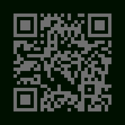
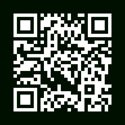
Creating labels for kegs/etc using QR codes and variables from Hugo posts

diff --git a/brewing_label.py b/brewing_label.py
@@ -1,0 +1,88 @@
+#!/usr/bin/env python
+# filepath: c:\Users\Michael Broggy\code\mbroggyblog\brewing_label.py
+import os
+import frontmatter
+import subprocess
+from PIL import Image
+
+# Directory paths (adjust as needed)
+POSTS_DIR = r"c:\Users\Michael Broggy\code\mbroggyblog\content\posts"
+IMAGES_DIR = r"c:\Users\Michael Broggy\code\mbroggyblog\static\images"
+LABELS_DIR = r"c:\Users\Michael Broggy\code\mbroggyblog\labels"
+
+# Ensure labels directory exists
+if not os.path.exists(LABELS_DIR):
+    os.makedirs(LABELS_DIR)
+
+# Function to resize the QR code image
+def resize_qr_code(qr_code_path, max_size=(100, 100)):
+    with Image.open(qr_code_path) as img:
+        img.thumbnail(max_size)
+        resized_path = os.path.join(LABELS_DIR, os.path.basename(qr_code_path))
+        img.save(resized_path)
+    return resized_path
+
+# Function to generate label content
+def generate_label_content(post):
+    brew_name = post.get('brew_name', post['title'])
+    brew_abv = post.get('brew_abv', '')
+    qr_code = post.get('qr', '')
+
+    # Adjust the QR code path to use the full path and resize it
+    if qr_code:
+        qr_code_path = os.path.join(IMAGES_DIR, os.path.basename(qr_code))
+        qr_code_path = resize_qr_code(qr_code_path)
+    else:
+        qr_code_path = ''
+
+    content = f"""
+# {brew_name}
+
+**ABV:** {brew_abv}
+
+![QR Code]({qr_code_path})
+"""
+    return content
+
+# Check if pandoc is available
+def check_pandoc():
+    try:
+        subprocess.run(["pandoc", "--version"], check=True)
+    except FileNotFoundError:
+        print("Error: pandoc is not installed or not found in your PATH.")
+        exit(1)
+
+# Process each Markdown file in the POSTS_DIR
+check_pandoc()
+for root, dirs, files in os.walk(POSTS_DIR):
+    for filename in files:
+        if filename.endswith(".md"):
+            post_path = os.path.join(root, filename)
+            print(f"Processing file: {post_path}")  # Debug print
+
+            # Parse front matter from the file
+            with open(post_path, "r", encoding="utf-8") as f:
+                post = frontmatter.load(f)
+
+            # Check if the post contains brew_ variables
+            if any(key.startswith('brew_') for key in post.keys()):
+                # Generate label content
+                label_content = generate_label_content(post)
+
+                # Save label content to a temporary Markdown file
+                temp_md_path = os.path.join(LABELS_DIR, f"{post['title']}.md")
+                with open(temp_md_path, "w", encoding="utf-8") as f:
+                    f.write(label_content)
+
+                # Convert the Markdown file to a printable label using pandoc
+                label_pdf_path = os.path.join(LABELS_DIR, f"{post['title']}.pdf")
+                subprocess.run([
+                    "pandoc", temp_md_path, "-o", label_pdf_path, "--pdf-engine=xelatex",
+                    "-V", "geometry:paperwidth=54mm,paperheight=70mm,margin=5mm",
+                    "-V", "caption="
+                ])
+
+                # Remove the temporary Markdown file
+                os.remove(temp_md_path)
+
+                print(f"Label generated: {label_pdf_path}")

diff --git a/qr_code_generator.py b/qr_code_generator.py
@@ -10,6 +10,7 @@ POSTS_DIRS = [
     r"c:\Users\Michael Broggy\code\mbroggyblog\content\posts",
     r"c:\Users\Michael Broggy\code\mbroggyblog\content\sca",
     r"c:\Users\Michael Broggy\code\mbroggyblog\content\tech",
+    r"c:\Users\Michael Broggy\code\mbroggyblog\content\brewing",
 ]
 IMAGES_DIR = r"c:\Users\Michael Broggy\code\mbroggyblog\static\images"
 BASE_URL = "https://xooyooz.xyz"
@@ -18,7 +19,7 @@ BASE_URL = "https://xooyooz.xyz"
 if not os.path.exists(IMAGES_DIR):
     os.makedirs(IMAGES_DIR)
 
-MAIN_TEXT_COLOR = "#707070"  
+MAIN_TEXT_COLOR = "#FFFFFF"  
 BACKGROUND_COLOR = "#001000"
 
 for POSTS_DIR in POSTS_DIRS:
@@ -33,8 +34,6 @@ for POSTS_DIR in POSTS_DIRS:
                 with open(post_path, "r", encoding="utf-8") as f:
                     post = frontmatter.load(f)
 
-                # Check if the post has the 'has_qr' tag set to 'yes'
-                if post.get('has_qr') == 'yes':
                     print(f"Generating QR code for: {post_path}")  # Debug print
 
                     # If there's a 'slug' in front matter, use it; otherwise use the filename
@@ -75,6 +74,3 @@ for POSTS_DIR in POSTS_DIRS:
                         f"For {filename}, use:\n"
                         f"![QR code for {slug_lower}](/images/{qr_filename})\n"
                     )
-                else:
-                    print(f"Skipping file (no 'has_qr: yes' tag): {post_path}")  # Debug print
-                    

diff --git a/content/posts/5-gallon-ginger-beer.md b/content/posts/5-gallon-ginger-beer.md
@@ -1,0 +1,33 @@
+---
+brew_abv: ''
+brew_brewfather_url: ''
+brew_date: 3/22/2025
+brew_fermentation_end_date: ''
+brew_fg: ''
+brew_ibu: ''
+brew_name: Ginger beer II
+brew_notes: ''
+brew_og: '1.035'
+brew_srm: ''
+brew_style: Ginger beer
+brew_tasting_notes: ''
+brew_yeast: Muntons
+categories:
+- brewing
+date: 2025-03-23 15:00:45
+description: ''
+draft: false
+has_qr: true
+preview: ''
+qr: /images/qr-5-gallon-ginger-beer.png
+tags: []
+title: 5 Gallon Ginger Beer
+---
+
+<!-- Add your brewing session content here -->
+
+## Brewing Session Details
+
+## Brewing Notes
+
+## Tasting Notes

diff --git a/content/sca/tavern2024.md b/content/sca/tavern2024.md
@@ -1,9 +1,13 @@
 ---
-title: 'Bhakail Tavern 2024'
-description: 'Recipes from The Sign of the Fir, Bear and Lion'
-date: 2024-02-24T18:27:40-04:00
-categories: ['sca']
-tags: ['cooking', 'tavern']
+categories:
+- sca
+date: 2024-02-24 22:27:40
+description: Recipes from The Sign of the Fir, Bear and Lion
+qr: /images/qr-tavern2024.png
+tags:
+- cooking
+- tavern
+title: Bhakail Tavern 2024
 ---
 
 I love tavern-style events, those events in the SCA which tend to be low-key overall and often relaxed when it comes to food as well. <!--more-->

diff --git a/content/tech/hugo2.md b/content/tech/hugo2.md
@@ -1,7 +1,9 @@
 ---
-title: 'Hugo2'
-date: 2024-08-30T18:30:38-04:00
-categories: ['tech']
+categories:
+- tech
+date: 2024-08-30 22:30:38
+qr: /images/qr-hugo2.png
+title: Hugo2
 ---
 
 After setting this site up for myself, I immediately started wondering about how Hugo might be useful for use in the SCA.  Having a static site versus dynamic could be useful, especially with as often as local group websites get slammed by bots or otherwise abused.

diff --git a/content/sca/proteges.md b/content/sca/proteges.md
@@ -1,10 +1,12 @@
 ---
-title: 'Proteges'
-date: 2024-08-30T18:27:40-04:00
-categories: ['sca']
+categories:
+- sca
+date: 2024-08-30 22:27:40
+qr: /images/qr-proteges.png
+title: Proteges
 ---
 
-I have a few proteges in the SCA; while I will teach anyone who asks, I don't require that they be my protege. 
+I have a few proteges in the SCA; while I will teach anyone who asks, I don't require that they be my protege
 
 <!--more-->
 

diff --git a/archetypes/brewing.md b/archetypes/brewing.md
@@ -10,6 +10,8 @@ preview: ""
 qr: ""
 has_qr: yes
 brew_brewfather_url: ""  # Brewfather link
+brew_name: ""
+brew_style: ""
 brew_date: ""  # Brew date
 brew_fermentation_end_date: ""  # Fermentation end date
 brew_og: ""  # Original Gravity
